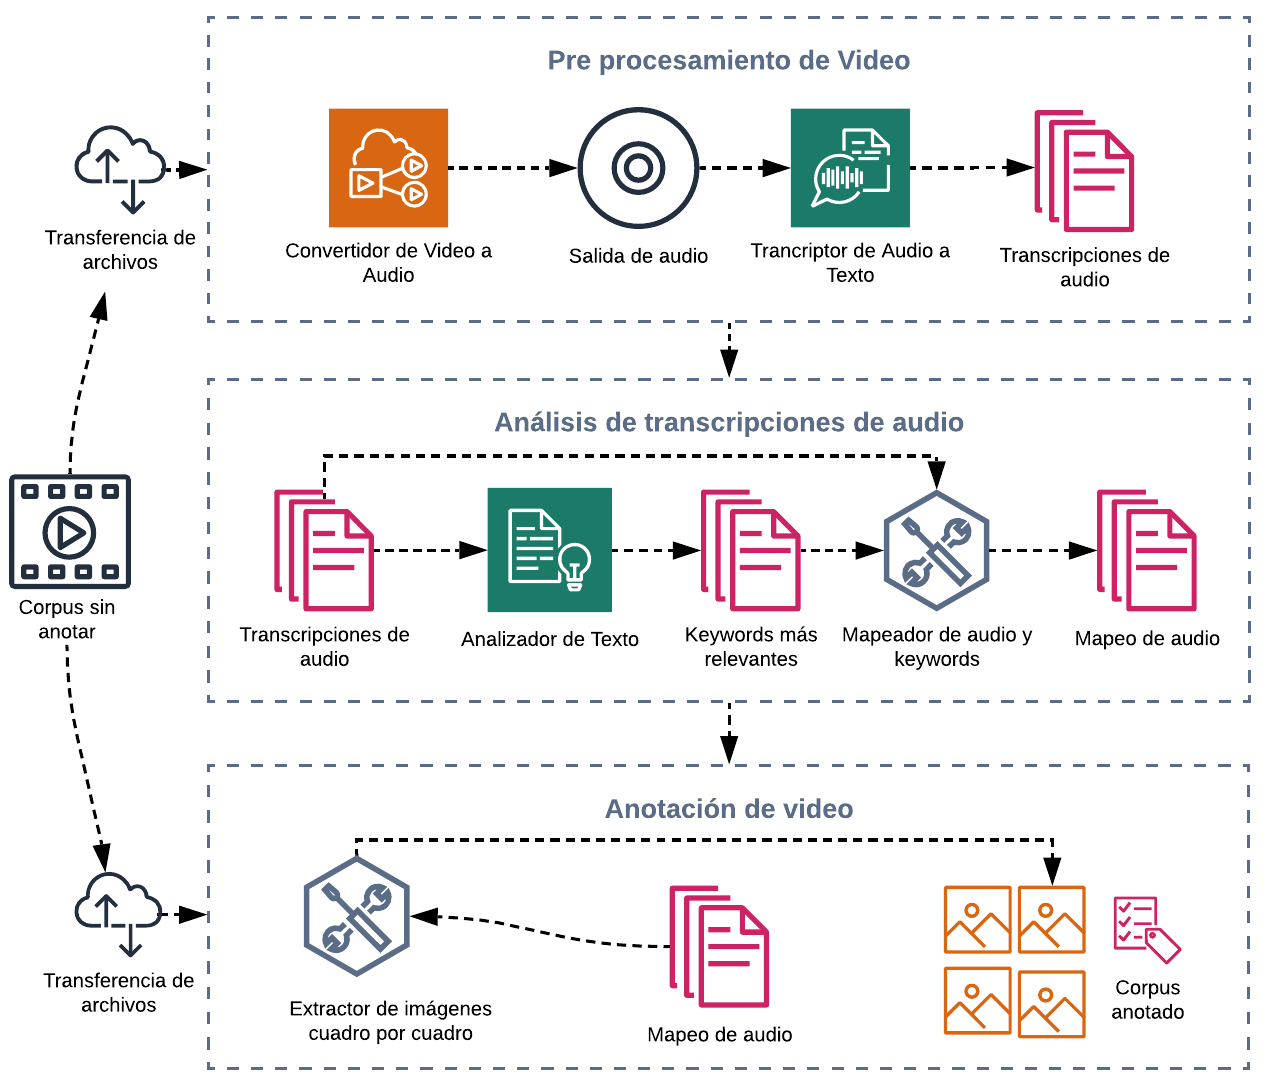
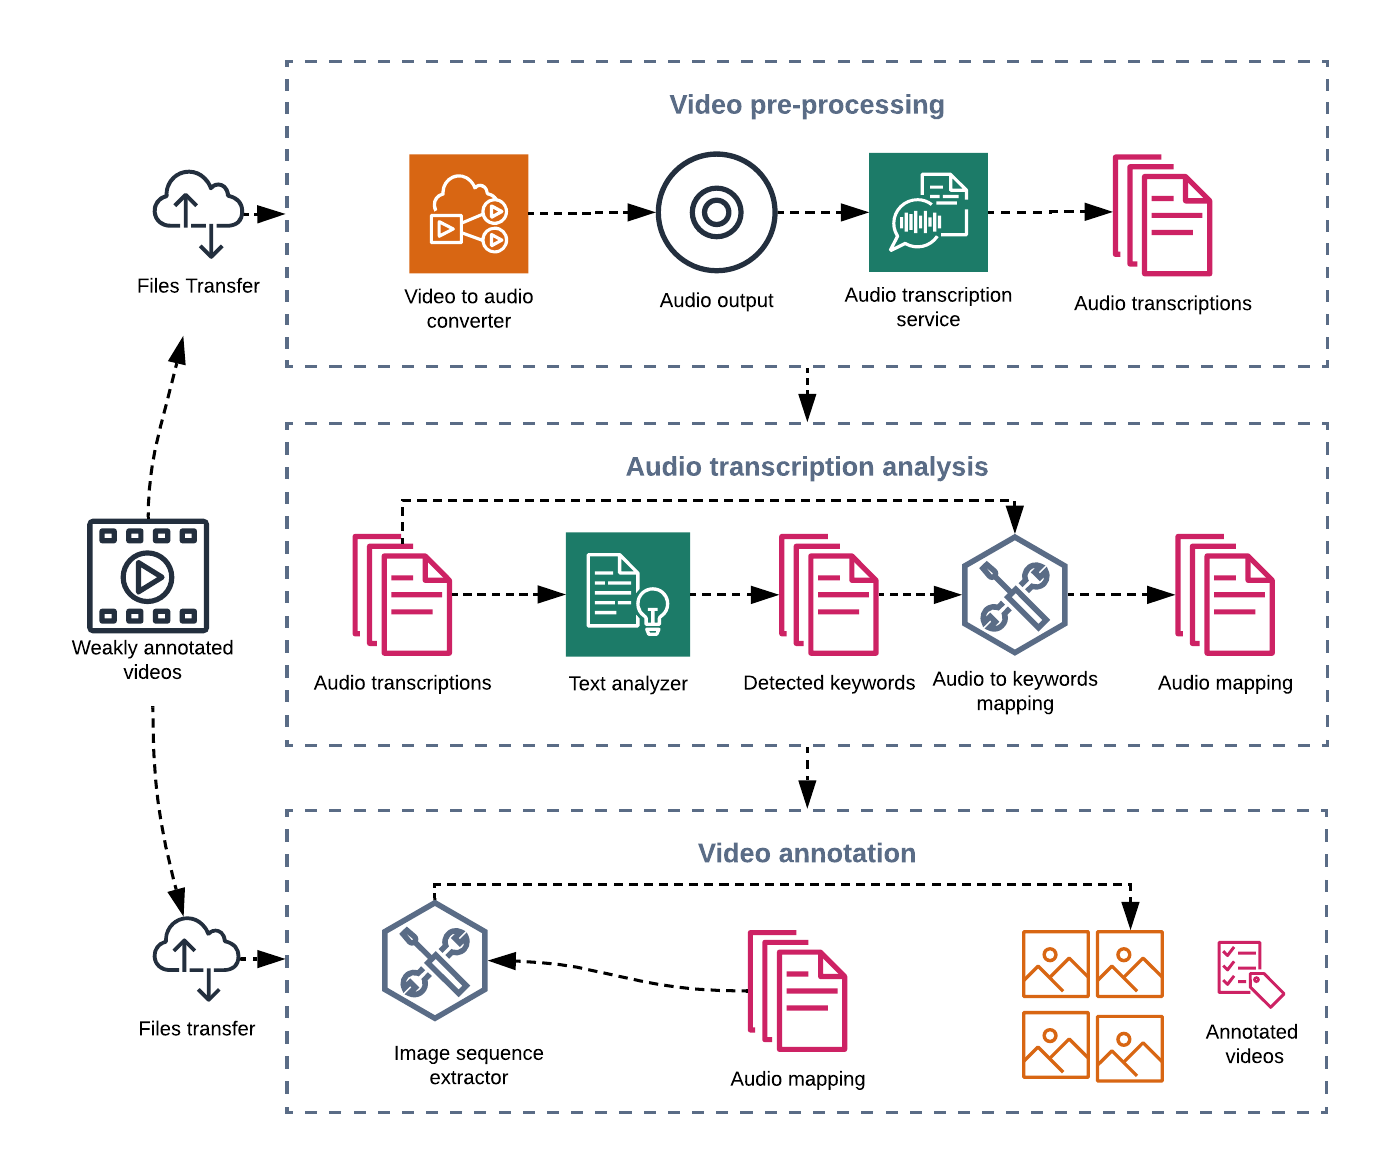
translating the video annotation process, added state of art for actions recognition, first version of the abstract and some minior fixes

diff --git a/article/article-tesis.tex b/article/article-tesis.tex
@@ -28,46 +28,54 @@
 \maketitle
     
 \begin{abstract}
-Include abstract here \\
-\keywords{video classification,gestures detection}
+People with deafness or hearing disabilities are aimed to use computer based systems, state of art video classification and human action recognition rely in a combination of traditional and new methods like optical flow and 3D CNN. In this article we show a method to detect Peruvian Sign Language elements from a weakly annotated videos dataset. Video annotation techniques were applied increasing the models performance, as a result we achieved XX precision and XX exhaustiveness by training a 3D CNN with optical flow inputs.   \\
+\keywords{video classification,human actions detection, optical flow, 3D CNN.}
 \end{abstract}
 
 \section{Introduction}\label{intro}
 
-The World Health Organization (WHO) stated that 466 million people world wide have disabling hearing loss and it is estimated that by 2050 over 900 million people will have disabling hearing loss and represents a global cost of 750.00 million dollars annually \cite{deafness_and_hearing_loss_2019}. 
+The World Health Organization (WHO) stated that 466 million people world wide have disabling hearing loss, estimating that by 2050 over 900 million people will have disabling hearing loss and will represent a global cost of 750.00 million dollars annually \cite{deafness_and_hearing_loss_2019}. 
 
-The Peruvian Institute of Informatics and Statistics (INEI) executed a national disabilities survey with the objective to segment and better understand which disabilities affect the Peruvian population \cite{disabilities_survey_2012}, the survey results show that 1.8\% of the Peruvian population shows at least one partial or permanent deafness or hearing limitation. 
+The Peruvian Institute of Informatics and Statistics (INEI) executed a national disabilities survey with the objective to segment and better understand which disabilities affect the Peruvian population \cite{disabilities_survey_2012}, the results showed that 1.8\% of the Peruvian population present at least a partial or permanent deafness or hearing limitation. 
 
-As of today is completely viable to think on systems that are able to detect and transcribe signs languages. However, in the same way as spoken languages, signs languages present local variations, for example, people that lives in the Lima metro area are not expect to use the same set of signs as people leaving in different parts of the country. Developing a dataset that describes the Peruvian Signs Language (LSP) \cite{lsp_2015} that can be used to train an AI model is expensive. 
+As of today it is completely viable to think about systems able to detect and transcribe signs languages. However, in the same way as spoken languages, signs languages also present local variations e.g. people that lives in the Lima metro area are not expect to use the same set of signs as people leaving in different parts of the country. Developing a dataset that describes the Peruvian Sign Language (PRL) \cite{lsp_2015} that can be used to train an AI model is expensive and difficult to achieve. 
 
-The Pontifical Catholic University of Peru (PUCP) Grammar and  Signs research group developed a LSP dataset \cite{lsp_dataset} that is weekly annotated because it does not show exactly the relation between the instant when a sign that is emitted and its corresponding translation.
+The Pontifical Catholic University of Peru (PUCP) Grammar and  Signs research group created a PRL dataset \cite{lsp_dataset} that is weekly annotated because it does not show exactly the relation between the instant when a sign that is emitted and its corresponding translation.
 
-This study was developed to obtain the Masters Degree in Informatics and Computer Science and propose a novel Signs Detection Method (nSDm) that allows signs detection in a weakly annotated dataset trying to answer the following questions:
+This study was developed to obtain the Masters Degree in Informatics and Computer Science and proposes a novel Signs Detection Method (nSDm) that allows signs detection in a weakly annotated dataset and tries to answer the following questions:
 
 \begin{enumerate}[(i)]
-\item What are most relevant techniques currently available for training an AI model from weakly annotated video and audio transcription?\label{q1}
+\item What are most relevant currently available techniques for training an AI model from  weakly annotated video and audio transcription?\label{q1}
 \item How precise and exhaustive is the model described in the above question on the recognition of a reduced set of signs in a weakly annotated dataset?\label{q2}
 \item What is the relation between the number of samples and the detection of new LSP elements in terms of nSDm precision and recall?\label{q3}
 \end{enumerate}
 
-nSDm will take advantage of the LSP dataset \cite{lsp_dataset} and will contribute in the generalization and progressive signs detection and could be used as a starting point for future studies including software accessibility improvements and human computer interaction for people with deafness and hearing limitations.
+nSDm will take advantage of the PRL dataset \cite{lsp_dataset} and will contribute with the generalization and progressive signs detection that could be used as a starting point for future studies including software accessibility improvements and human computer interaction for people with deafness and hearing limitations.
 
 The rest of the article is organized as follows. In sec \ref{relatedwork} we review the related work on video classification and body actions recognition using both Optical Flow+Two Stream CNN and 3D CNN architectures. In sec \ref{method} we introduce nSDm and specify its architecture and design. In sec \ref{experimentation} we evaluate nSDm precision and recall and provide answers for the research questions \ref{q1},\ref{q2},\ref{q3}. In sec \ref{datasetdesc} we describe and provide the dataset details. In sec \ref{videoannot} we describe the video annotation and data pre-processing techniques applied to the dataset and finally in sec \ref{conclusion} we present our conclusion and describe future work.
 \section{Related Work} \label{relatedwork}
+\subsection{Action Recognition}
+Human action recognition is a extensively studied field and available action recognition dataset: UCF101, HMDB51, THUMOS14  are available, researches tried to solve the human action recognition problem using different approaches including Optical Flow and 3D CNN \cite{qiu2017learning}.  \textbf{Optical Flow,} is defined as the pattern obtained from the motion of objects, surfaces and edges in a visual scene caused by the relative motion between the observer and a scene, it is achieved by distributing movement velocities and brightness across frames. It is a  key concept in action recognition from videos \cite{wang2019hallucinating}. Optical flow estimation is treated as an image reconstruction problem. Given a frame set, the optical flow is generated and allows to reconstruct one frame from the others \cite{zhu2018hidden}. Formally, taking the optical flow displacement field as input and training a CNN with it, then the network should have learned useful representations of the underlying motions. Even though Optical Flow represents the movement between a set of frames, if camera motion is considered as an action motion, it may corrupt the action classification \cite{wang2013dense}. Various types of camera motion can be observed in realistic videos, e.g., zooming, tilting, rotation, etc. \textbf{Motion Boundary Histogram (MBH),} It is a simple an efficient way to achieve robustness during human action detection when camera movements are mixed within the recorded actions by computing derivatives separately for the horizontal and vertical components of the optical flow. Since MBH represents the gradient of optical flow, locally constant camera motion is removed and information about changes in the flow field is kept. MBH is more robust to camera motion than optical flow, thus more discriminative for action recognition.\cite{wang2013dense}. 3D CNN are not as effective as optical flow to detect human actions on its own, 3D CNN can be trained to learn optical flow so we can avoid costly computation and storage and obtain task-specific motion representation  \cite{zhu2018hidden} and increase models performance, precision and exhaustiveness on human action recognition.
+\subsection{Video Classification}
+\textbf{Bag of Words.}
+\\
+\textbf{Fussing parallel CNN.}
 \section{Method}\label{method}
 \section{Experimentation}\label{experimentation}
 \subsection{Dataset Description \cite{lsp_dataset}}\label{datasetdesc}
-The LSP dataset was developed by the PUCP Grammar and Signs research Group in 2014 and consists in a set of videos recorded during the interviews of 24 individuals, 12 male and 12 female (informants), all of them residents in Lima Peru. All of them reported to be borne with a permanent deafness condition or acquired the condition before the acquisition of Spanish. The dataset consists in 718 video clips recorded with a ADR-CX220 SONY HD camera which included an embedded microphone. The camera only focus the informant but also records questions, instructions and translations.
+The LSP dataset was developed by the PUCP Grammar and Signs research group in 2014 and consists in a set of videos recorded during the interviews of 24 individuals, 12 male and 12 female informants, all of them are Lima Peru residents and reported to be borne with a permanent deafness condition or acquired the condition before the acquisition of Spanish. 
 
-The videos were recorded in three sessions that included three participants: The coordinator, the translator and the informant.
+The dataset consists in 718 video clips recorded with a ADR-CX220 SONY HD camera which included an embedded microphone. The camera focused only the informant but also recorded questions, instructions and translations.
+
+The video clips were recorded in three sessions with the following participants: A coordinator, a LSP \cite{lsp_2015} translator and a informant.\\
 
 \textbf{Recording Session 1}: A 45-60 minutes semi structured interview that included: Biographic information as well as habits, anecdotes, opinion about cultural subjects and elicitation of names, states and actions. 
 
-\textbf{Recording Session 2}: The informant was presented with a set of 55 cards describing actions and were asked to choose a set of them and build a coherent story that was subsequently told by the informant.
+\textbf{Recording Session 2}: The informant was presented with a set of 55 cards describing actions and were asked to choose a set of them in order to build a coherent story that was subsequently told by the informant.
 
-\textbf{Recording Session 3}: A LSP conversation between the informant and the translator. The conversation was facilitated by the coordinator
+\textbf{Recording Session 3}: A LSP \cite{lsp_2015} conversation facilitated by the coordinator happening between the informant and the translator.\\
 
-During all the sessions a LSP translator performs a translation after a word or phrase is finished. The dataset is weakly annotated given there is not direct relation between the translation and the instant when the sign is emitted.
+During all the sessions a LSP \cite{lsp_2015} translator performs a translation after a word or phrase is completed. The dataset is weakly annotated given there is not direct relation between the translation and the instant when the sign is emitted.
 
 \subsection{Video Annotation}\label{videoannot}
 \begin{figure}[ht!]
